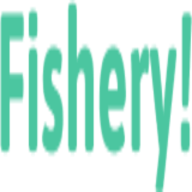
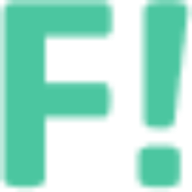
feat(add commodity) finish add commodity
Fixing flow application and finishing functionality of add commodity, change logo

diff --git a/src/pages/addCommodity/index.js b/src/pages/addCommodity/index.js
@@ -1,9 +1,10 @@
-import { useState, useEffect } from "react";
+import { useState, useEffect, useRef } from "react";
 import { useHistory } from "react-router-dom";
 import { v4 as uuidv4 } from "uuid";
 
 import Input from "../../components/input";
 import Button from "../../components/button";
+import Modal from "../../components/modal";
 import { readAllData as readDataSize } from "../../api/size";
 import { readAllData as readDataLocation } from "../../api/location";
 import { addData } from "../../api/list";
@@ -14,6 +15,8 @@ export default function AddCommodity() {
   const [locationData, setLocationData] = useState([]);
   const [sizeData, setSizeData] = useState([]);
   const [formData, setFormData] = useState({ ...DEFAULT_FORM_VALUE });
+  const [isSubmit, setIsSubmit] = useState(false);
+  const refConfirmModal = useRef(null);
   const history = useHistory();
 
   useEffect(() => {
@@ -39,7 +42,14 @@ export default function AddCommodity() {
     }
     setFormData(oldData);
   };
+  const handlerShowConfirmModal = () => {
+    refConfirmModal.current.showModal();
+  };
+  const closeShowConfirmModal = () => {
+    refConfirmModal.current.hideModal();
+  };
   const submitData = () => {
+    setIsSubmit(true);
     const [area_provinsi, area_kota] = formData.location.split(",");
     const { komoditas, size, price } = formData;
     addData({
@@ -50,8 +60,11 @@ export default function AddCommodity() {
       price,
       uuid: uuidv4(),
       timestamp: Date.now()
-    }).then(() => alert("Berhasil menambahkan data"));
-    history.push("/");
+    }).then(() => {
+      setIsSubmit(false);
+      handlerShowConfirmModal();
+      setFormData({ ...DEFAULT_FORM_VALUE });
+    });
   };
   const checkValidData = () => {
     return (
@@ -63,7 +76,16 @@ export default function AddCommodity() {
   };
   return (
     <>
-      <h2>Tambah Komoditas</h2>
+      <div className="header">
+        <div className="header__section">
+          <h2>Tambah Komoditas</h2>
+        </div>
+        <div className="header__section">
+          <Button var="primary" onClick={() => history.push("/")}>
+            Liat List Komoditas
+          </Button>
+        </div>
+      </div>
       <div className="form">
         <div className="form__section">
           <div className="form__field-group">
@@ -121,13 +143,24 @@ export default function AddCommodity() {
           <Button
             var="primary"
             className="form__submit"
-            disabled={!checkValidData()}
+            disabled={!checkValidData() || isSubmit}
             onClick={() => submitData()}
           >
             Tambahkan Komoditas
           </Button>
         </div>
       </div>
+      <Modal title="Data Berhasil Diinput" ref={refConfirmModal}>
+        <p>Yay!! Data komoditas berhasil ditambahkan </p>
+        <div className="button-confirm">
+          <Button var="primary" onClick={() => closeShowConfirmModal()}>
+            Tambah Lagi
+          </Button>
+          <Button var="primary" outline={() => history.push("/")}>
+            Liat Komoditas
+          </Button>
+        </div>
+      </Modal>
     </>
   );
 }

diff --git a/src/components/modal/index.scss b/src/components/modal/index.scss
@@ -1,0 +1,95 @@
+.modal {
+  width: 80%;
+  min-width: 300px;
+  max-width: 768px;
+  background-color: white;
+  border-radius: 1rem;
+  border: 2px solid rgba(0, 0, 0, 0.04);
+  position: relative;
+  padding: 0.8rem;
+  &--bigger {
+    width: 95%;
+  }
+  &--hide.modal__backdrop {
+    display: none;
+    z-index: -1;
+    opacity: 0;
+    transform: translate(-50%, -50%);
+    animation: all 0.25s;
+  }
+  &__cancel-button {
+    font-size: large;
+    cursor: pointer;
+  }
+  &__backdrop {
+    position: fixed;
+    width: 100vw;
+    height: 100vh;
+    background-color: rgba($color: black, $alpha: 0.5);
+    top: 50%;
+    left: 50%;
+    z-index: 1400;
+    display: flex;
+    justify-content: center;
+    align-items: center;
+    opacity: 1;
+    animation: all 0.2s;
+    // transform: scale(1);
+    transform: translate(-50%, -50%);
+  }
+  &__separator {
+    border: none;
+    margin: 0.8rem 0;
+    border-bottom: 2px solid rgba(0, 0, 0, 0.04);
+    // box-shadow: 0 2px 0 rgba(0, 0, 0, 0.04);
+  }
+  &__header {
+    display: flex;
+    justify-content: space-between;
+    align-items: center;
+    width: 100%;
+    &--headless {
+      justify-content: flex-end;
+    }
+  }
+  &__title {
+    font-size: 2.4rem;
+    font-weight: bold;
+  }
+  &__submit {
+    width: 100%;
+    .button {
+      width: 100%;
+    }
+  }
+  &__content {
+    padding: 0.8rem;
+    &--fullscreen {
+      padding: 0;
+    }
+  }
+}
+@keyframes hide {
+  from {
+    z-index: 2;
+    transform: scale(1);
+    opacity: 1;
+  }
+  to {
+    z-index: -1;
+    transform: scale(0);
+    opacity: 0;
+  }
+}
+@keyframes show {
+  from {
+    transform: scale(0);
+    opacity: 0;
+    z-index: -1;
+  }
+  to {
+    transform: scale(1);
+    opacity: 1;
+    z-index: 2;
+  }
+}

diff --git a/src/components/modal/index.js b/src/components/modal/index.js
@@ -1,0 +1,48 @@
+import React, { useState, forwardRef, useImperativeHandle } from "react";
+
+import "./index.scss";
+const Index = forwardRef((props, ref) => {
+  const [show, setShowModal] = useState(false);
+  const showModal = () => {
+    setShowModal(true);
+  };
+  const hideModal = () => {
+    setShowModal(false);
+  };
+  useImperativeHandle(ref, () => {
+    return {
+      showModal: showModal,
+      hideModal: hideModal,
+      status: show
+    };
+  });
+  return (
+    <div className={`modal__backdrop ${!show && "modal--hide"}`}>
+      <div className={`modal ${props.bigger && "modal--bigger"}`}>
+        <div
+          className={`modal__header ${
+            props.headless ? "modal__header--headless" : ""
+          }`}
+        >
+          {!props.headless && <p className="modal__title">{props.title}</p>}
+          {!props.none_cancel && (
+            <span className="modal__cancel-button" onClick={() => hideModal()}>
+              <span className="material-icons">clear</span>
+            </span>
+          )}
+        </div>
+        {!props.headless && <hr className="modal__separator" />}
+        <div
+          className={`modal__content ${
+            props.fullscreen && "modal__content--fullscreen"
+          }`}
+        >
+          {props.children}
+        </div>
+        <div className="modal__submit">{props.act_button}</div>
+      </div>
+    </div>
+  );
+});
+
+export default Index;

diff --git a/src/pages/addCommodity/index.scss b/src/pages/addCommodity/index.scss
@@ -1,3 +1,10 @@
+.header {
+  width: 100%;
+  display: flex;
+  justify-content: space-between;
+  align-items: flex-start;
+  margin-bottom: 1.6rem;
+}
 .form {
   flex: 1;
   display: flex;
@@ -51,4 +58,11 @@
       justify-content: center;
     }
   }
+}
+.button-confirm {
+  display: grid;
+  width: 100%;
+  grid-template-columns: 1fr 1fr;
+  gap: 0.8rem;
+  margin-top: 1.6rem;
 }

diff --git a/src/components/button/index.js b/src/components/button/index.js
@@ -4,8 +4,8 @@ export default function Button(props) {
     <button
       {...props}
       className={`button ${props.var ? `button--${props.var}` : ""} ${
-        props.className
-      }`}
+        props.outline ? `button--outline` : ""
+      } ${props.className}`}
     >
       {props.children}
     </button>

diff --git a/src/components/button/index.scss b/src/components/button/index.scss
@@ -18,5 +18,10 @@
   &--primary {
     background: var(--primary);
     color: white;
+    &.button--outline {
+      border: 1px solid var(--primary);
+      background-color: white;
+      color: var(--primary);
+    }
   }
 }
